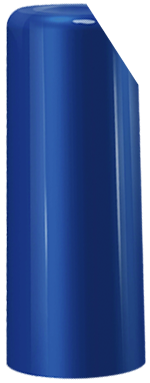
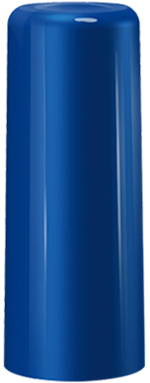
"fine-tuning" for header, new cap image

diff --git a/app/css/global/_header.scss b/app/css/global/_header.scss
@@ -300,8 +300,12 @@
                    width: 1px;
                    height: 22px;
                    float: right;
-                   //margin-left: 10px;
-                   //margin-right: 10px;
+
+                   @include breakpoint('tablet') {
+                     margin-right: 5px;
+                     margin-left: 5px;
+                   }
+
                    margin-top: 2px;
                }
            }
@@ -364,7 +368,7 @@
           background:url("../img/desktop/header/nav-bg-shadow-big.png") repeat-x;
           height: 150px;
            .nassacort-logo{
-               margin-left:13%;
+               margin-left:12%; //13%
            }
             ul.utility-nav{
                 margin-right:12%;
@@ -380,7 +384,7 @@
            margin-right:0;
            right:0;
            margin-left: 0;
-           left:12%;
+           left:11%;
            li{
                a{
                    font-size:13px;
